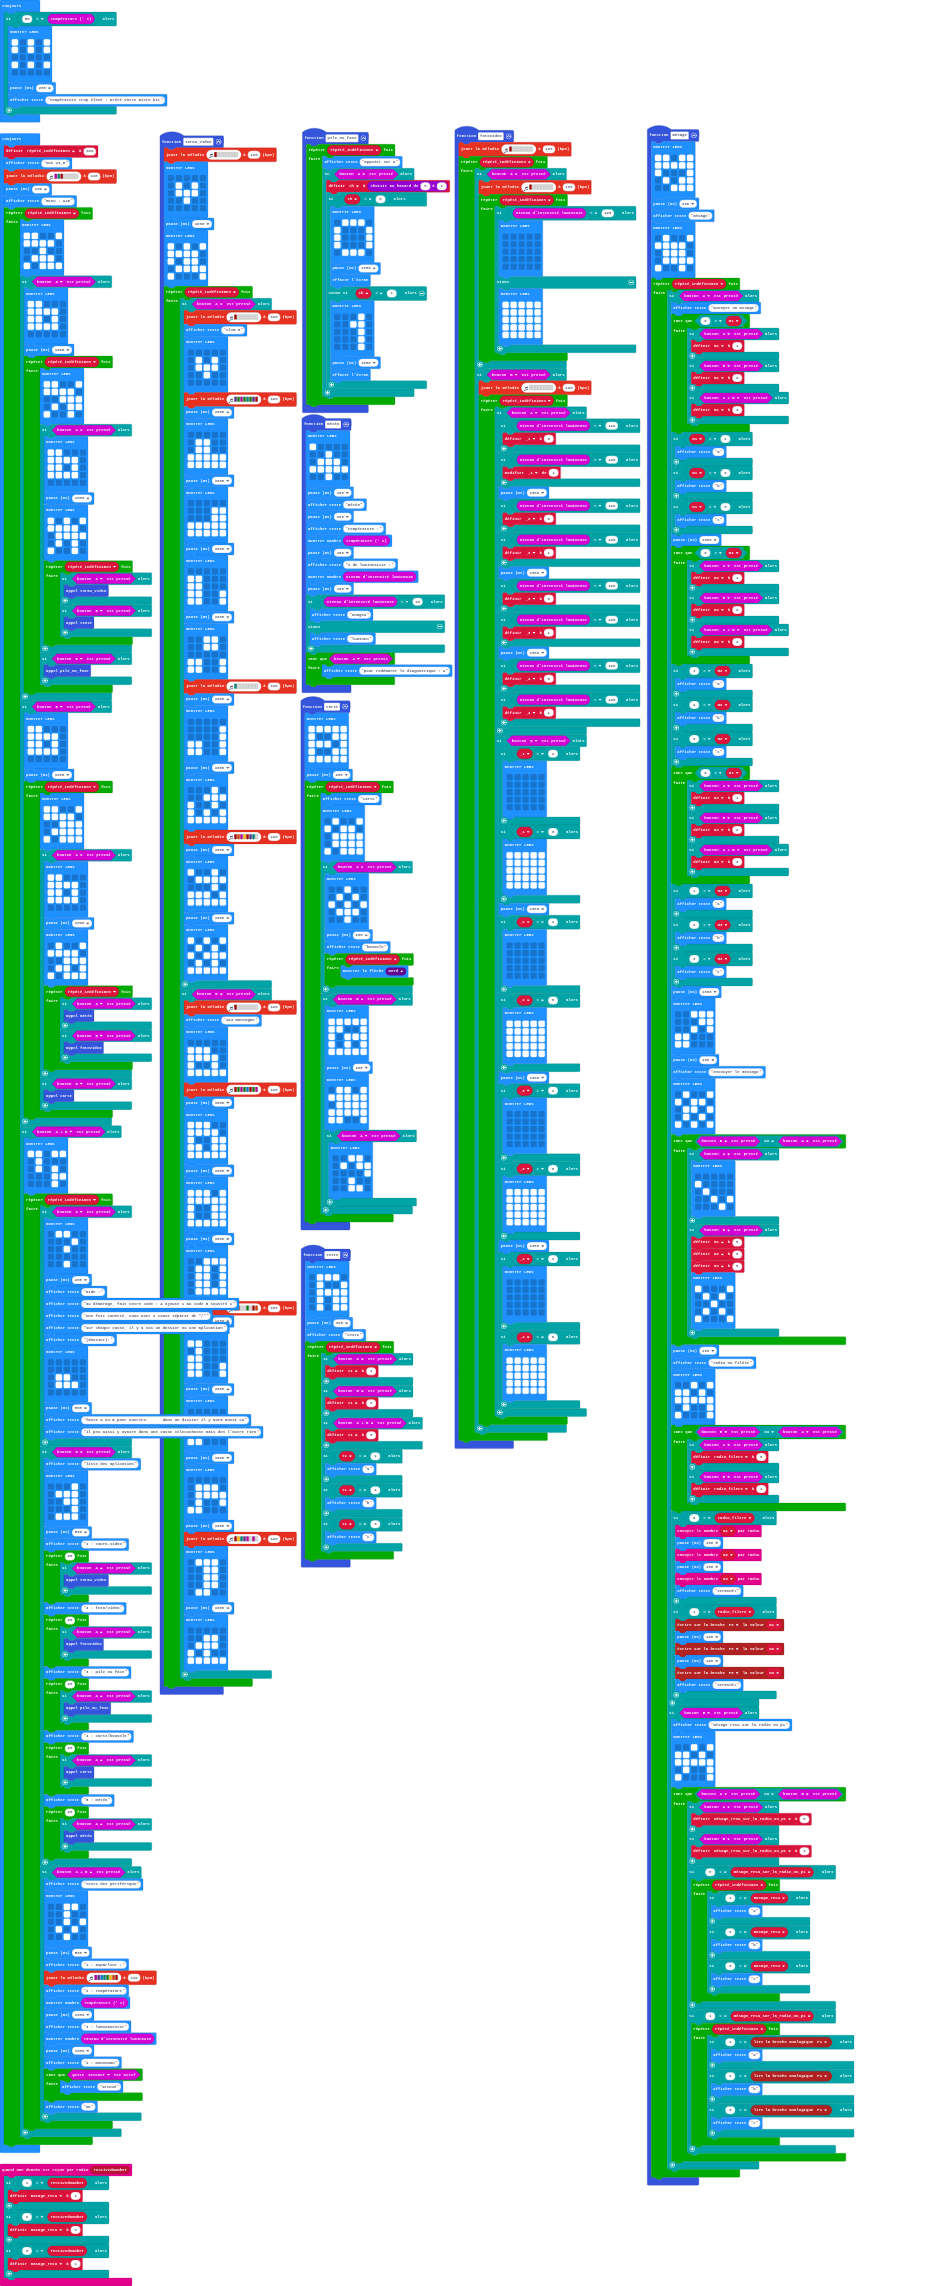
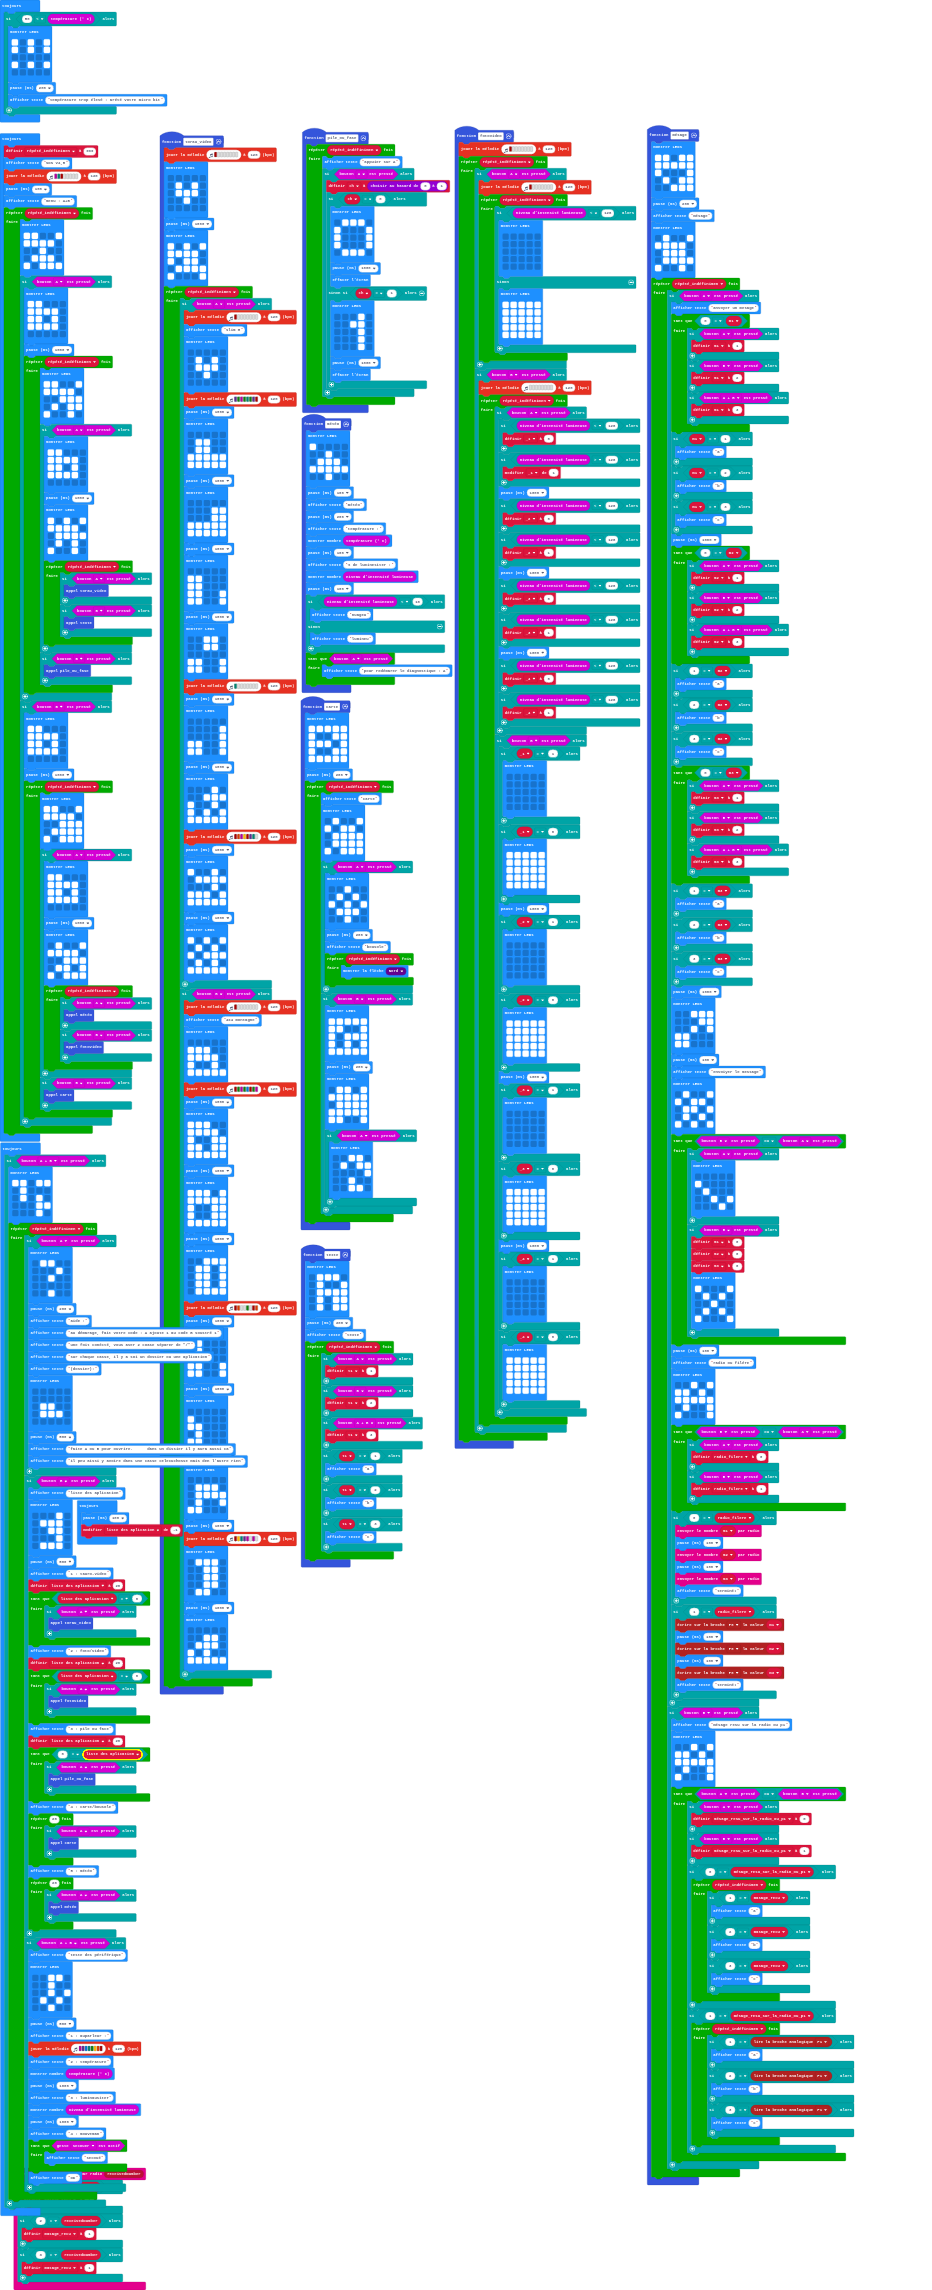
Mise à jour pxt.json, main.blocks, main.ts

diff --git a/main.ts b/main.ts
@@ -11,6 +11,7 @@ let _2 = 0
 let _3 = 0
 let _4 = 0
 let t1 = 0
+let liste_des_aplication = 0
 function météo () {
     basic.showLeds(`
         # . . . .
@@ -804,106 +805,115 @@ basic.forever(function () {
                 }
             }
         }
-        if (input.buttonIsPressed(Button.AB)) {
-            basic.showLeds(`
-                # # . # #
-                . # . . .
-                . # . # .
-                . . . # #
-                . . . # .
-                `)
-            for (let index = 0; index < répété_indéfinimen; index++) {
-                if (input.buttonIsPressed(Button.A)) {
-                    basic.showLeds(`
-                        . # # . .
-                        . . . # .
-                        . . # . .
-                        . . . . .
-                        . . # . .
-                        `)
-                    basic.pause(200)
-                    basic.showString("aide :")
-                    basic.showString("au démarage, fait votre code : A ajoute 1 au code B soustré 1")
-                    basic.showString("une foit conécté, vous aver 2 coase séparer de \"/\"")
-                    basic.showString("sur chaque casse, il y a soi un dossier ou une aplication")
-                    basic.showString("(dossier):")
-                    basic.showLeds(`
-                        . . . . .
-                        . . . . .
-                        . # # . .
-                        . # # # .
-                        . . . . .
-                        `)
-                    basic.pause(500)
-                    basic.showString("faite A ou B pour ouvrire.      dans un dissier il y aura aussi ca")
-                    basic.showString("il peu aissi y avoire dans une casse celecuchosse mais den l'autre rien")
-                }
-                if (input.buttonIsPressed(Button.B)) {
-                    basic.showString("liste des aplication")
-                    basic.showLeds(`
-                        . . . # .
-                        . # # # .
-                        . . # # .
-                        . . . # .
-                        . # # # .
-                        `)
-                    basic.pause(500)
-                    basic.showString("1 : tauro-video")
-                    for (let index = 0; index < 20; index++) {
-                        if (input.buttonIsPressed(Button.A)) {
-                            torau_video()
-                        }
-                    }
-                    basic.showString("2 : foto/video")
-                    for (let index = 0; index < 20; index++) {
-                        if (input.buttonIsPressed(Button.A)) {
-                            fotovideo()
-                        }
-                    }
-                    basic.showString("3 : pile ou face")
-                    for (let index = 0; index < 20; index++) {
-                        if (input.buttonIsPressed(Button.A)) {
-                            pile_ou_fase()
-                        }
-                    }
-                    basic.showString("4 : carte/bousole")
-                    for (let index = 0; index < 20; index++) {
-                        if (input.buttonIsPressed(Button.A)) {
-                            carte()
-                        }
-                    }
-                    basic.showString("5 : météo")
-                    for (let index = 0; index < 20; index++) {
-                        if (input.buttonIsPressed(Button.A)) {
-                            météo()
-                        }
+    }
+})
+basic.forever(function () {
+    if (input.buttonIsPressed(Button.AB)) {
+        basic.showLeds(`
+            # # . # #
+            . # . . .
+            . # . # .
+            . . . # #
+            . . . # .
+            `)
+        for (let index = 0; index < répété_indéfinimen; index++) {
+            if (input.buttonIsPressed(Button.A)) {
+                basic.showLeds(`
+                    . # # . .
+                    . . . # .
+                    . . # . .
+                    . . . . .
+                    . . # . .
+                    `)
+                basic.pause(200)
+                basic.showString("aide :")
+                basic.showString("au démarage, fait votre code : A ajoute 1 au code B soustré 1")
+                basic.showString("une foit conécté, vous aver 2 coase séparer de \"/\"")
+                basic.showString("sur chaque casse, il y a soi un dossier ou une aplication")
+                basic.showString("(dossier):")
+                basic.showLeds(`
+                    . . . . .
+                    . . . . .
+                    . # # . .
+                    . # # # .
+                    . . . . .
+                    `)
+                basic.pause(500)
+                basic.showString("faite A ou B pour ouvrire.      dans un dissier il y aura aussi ca")
+                basic.showString("il peu aissi y avoire dans une casse celecuchosse mais den l'autre rien")
+            }
+            if (input.buttonIsPressed(Button.B)) {
+                basic.showString("liste des aplication")
+                basic.showLeds(`
+                    . . . # .
+                    . # # # .
+                    . . # # .
+                    . . . # .
+                    . # # # .
+                    `)
+                basic.pause(500)
+                basic.showString("1 : tauro-video")
+                liste_des_aplication = 20
+                while (liste_des_aplication == 0) {
+                    if (input.buttonIsPressed(Button.A)) {
+                        torau_video()
                     }
                 }
-                if (input.buttonIsPressed(Button.AB)) {
-                    basic.showString("teste des périférique")
-                    basic.showLeds(`
-                        . . # # .
-                        . . # . .
-                        . . # . #
-                        . # . # .
-                        . . # . .
-                        `)
-                    basic.pause(500)
-                    basic.showString("1 : auparleur :")
-                    music.playMelody("C D E F G A B C5 ", 120)
-                    basic.showString("2 : température")
-                    basic.showNumber(input.temperature())
-                    basic.pause(1000)
-                    basic.showString("3 : luminausiter")
-                    basic.showNumber(input.lightLevel())
-                    basic.pause(1000)
-                    basic.showString("4 : mouveman")
-                    while (input.isGesture(Gesture.Shake)) {
-                        basic.showString("secoué")
+                basic.showString("2 : foto/video")
+                liste_des_aplication = 20
+                while (liste_des_aplication == 0) {
+                    if (input.buttonIsPressed(Button.A)) {
+                        fotovideo()
                     }
-                    basic.showString("OK")
                 }
+                basic.showString("3 : pile ou face")
+                liste_des_aplication = 20
+                while (0 == liste_des_aplication) {
+                    if (input.buttonIsPressed(Button.A)) {
+                        pile_ou_fase()
+                    }
+                }
+                basic.showString("4 : carte/bousole")
+                for (let index = 0; index < 20; index++) {
+                    if (input.buttonIsPressed(Button.A)) {
+                        carte()
+                    }
+                }
+                basic.showString("5 : météo")
+                for (let index = 0; index < 20; index++) {
+                    if (input.buttonIsPressed(Button.A)) {
+                        météo()
+                    }
+                }
+            }
+            if (input.buttonIsPressed(Button.AB)) {
+                basic.showString("teste des périférique")
+                basic.showLeds(`
+                    . . # # .
+                    . . # . .
+                    . . # . #
+                    . # . # .
+                    . . # . .
+                    `)
+                basic.pause(500)
+                basic.showString("1 : auparleur :")
+                music.playMelody("C D E F G A B C5 ", 120)
+                basic.showString("2 : température")
+                basic.showNumber(input.temperature())
+                basic.pause(1000)
+                basic.showString("3 : luminausiter")
+                basic.showNumber(input.lightLevel())
+                basic.pause(1000)
+                basic.showString("4 : mouveman")
+                while (input.isGesture(Gesture.Shake)) {
+                    basic.showString("secoué")
+                }
+                basic.showString("OK")
             }
         }
     }
+})
+basic.forever(function () {
+    basic.pause(100)
+    liste_des_aplication += -1
 })
